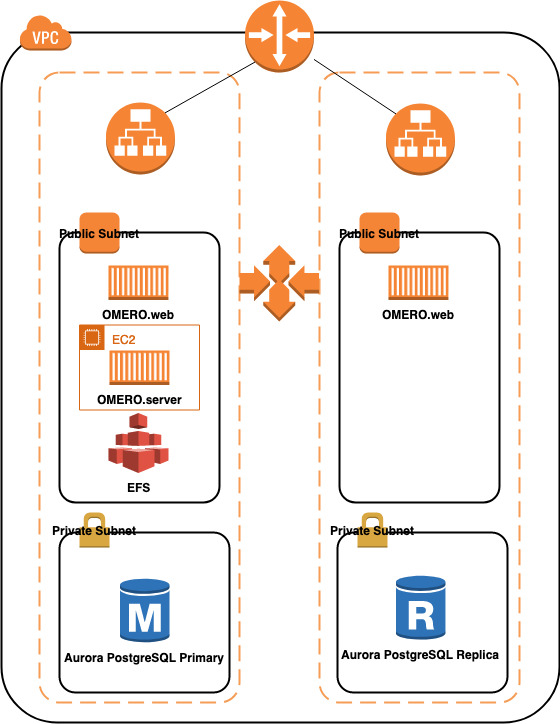
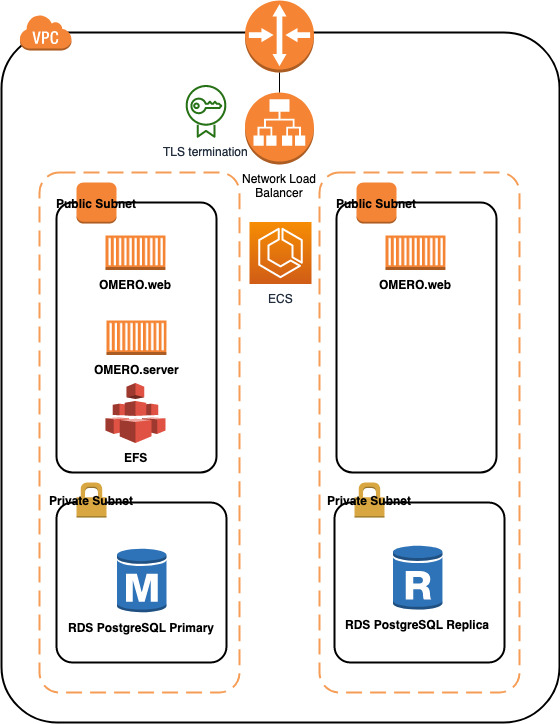
readme

diff --git a/README.md b/README.md
@@ -1,17 +1,26 @@
-## digital-pathology-on-aws
+## Digital Pathology on AWS
 
 
-## Deploy OMERO on AWS
+### Deploy Open Source [OMERO](https://www.openmicroscopy.org/omero/) on AWS
 
-
-The Hight Availability (HA) deployment of OMERO with single read write server can be used for 1-click deployment:
-
-[![launchstackbutton](Figures/launchstack.png)](https://console.aws.amazon.com/cloudformation/home?region=us-east-1#/stacks/create/template?stackName=omerostack&templateURL=https://omero-on-aws.s3-us-west-1.amazonaws.com/OMEROstack_RW.yml)
+[OMERO deployment](https://github.com/ome/omero-deployment-examples) is a typical three tier Web application. OMERO web and server are containerized and can run on [AWS ECS](https://aws.amazon.com/ecs). The data is stored in the [AWS EFS](https://aws.amazon.com/efs/) mounted to OMERO server and the [AWS RDS](https://aws.amazon.com/rds/) PostgreSQL database. Since current OMERO server only support one writer per mounted network share file, we will deploy only one read+write OMERO server in the following CloudFormation templates, otherwise there will be  a race condition between the two instances trying to own a lock on the network file share. Even though the OMERO server is deployed in single instance, we can achieve the Hight Availability (HA) deployment of OMERO web and PostgreSQL database.
 
 The diagram of Architecture is here:
+
 ![arch](Figures/omero-on-aws-rw.jpg)
 
-To install [AWS CLI](https://aws.amazon.com/cli/) and [omero-py](https://docs.openmicroscopy.org/omero/5.6.0/developers/Python.html) on the EC2 instance running OMERO server container, [run the following scripts](https://docs.aws.amazon.com/cli/latest/userguide/install-cliv2-linux.html)after login the instance:
+First create the network infrastructure. One way to do it is to deploy using [this CloudFormation template](https://docs.aws.amazon.com/codebuild/latest/userguide/cloudformation-vpc-template.html), which will create one [AWS VPC](https://aws.amazon.com/vpc/), two public subnets and two private subnets. If you want to add VPC flow logs, you can deploy [the network infrastructure CloudFormation template](https://github.com/aws-samples/digital-pathology-on-aws/blob/main/OMERO-cloudformation-templates/OMERONetworkInfra.yaml) in this repository and select true for AddVPCFlowLog parameter.
+
+Next the OMERO stack can be deployed using this 1-click deployment:
+[![launchstackbutton](Figures/launchstack.png)](https://console.aws.amazon.com/cloudformation/home?region=us-east-1#/stacks/create/template?stackName=omerostack&templateURL=https://omero-on-aws.s3-us-west-1.amazonaws.com/OMEROstackFargateTLS_RW.yml)
+
+which will deploy two nested CloudFormation templates, one for storage (EFS and RDS) and one for ECS containers (OMERO web and server). It also deploys a certificate for TLS termination at Network Load Balancer. Majority of parameters already have default values filled and subject to be customized. VPC and Subnets are required, which are from previous deployment. It also requires the Hosted Zone ID and fully qualifed domain name in [AWS Route53](https://aws.amazon.com/route53/), which will be used to validate SSL Certificate generated by [AWS Certificate Manager](https://aws.amazon.com/certificate-manager/).
+
+If you want to connect to the instance that host the OMERO server container and run omero client CLI to import images on that instance, you can deploy the OMERO server container on ECS EC2 instance using 1-click deployment:
+
+[![launchstackbutton](Figures/launchstack.png)](https://console.aws.amazon.com/cloudformation/home?region=us-east-1#/stacks/create/template?stackName=omerostack&templateURL=https://omero-on-aws.s3-us-west-1.amazonaws.com/OMEROstackTLS_RW.yml)
+
+Everything else other than the OMERO server running on EC2 instance is same as earlier CloudFormation template. To import whole slide images to OMERO server, you will need to install [AWS CLI](https://aws.amazon.com/cli/) and [omero-py](https://docs.openmicroscopy.org/omero/5.6.0/developers/Python.html) on the EC2 instance hosting OMERO server container, [run the following scripts](https://docs.aws.amazon.com/cli/latest/userguide/install-cliv2-linux.html) after login the instance:
 
 ```
 curl "https://awscli.amazonaws.com/awscli-exe-linux-x86_64.zip" -o "awscliv2.zip"  
@@ -36,13 +45,14 @@ and then use [OMERO client CLI](https://docs.openmicroscopy.org/omero/5.6.1/user
 provide the DNSname:4046, root and omero
 `omero import ./xxxxxx.svs`
 
-Another Hight Availability (HA) deployment of OMERO with single read write server on ECS Fargate can be used for 1-click deployment:
 
+If you do not have registered domain and public hosted zone in AWS Route53, you can deploy the following CloudFormation stacks and access to OMERO web through network load balancer DNS name without TLS termination. Again, you have two options: 
+
+You can run all OMERO web and server containers on ECS Fargate using this 1-click deployment:
 [![launchstackbutton](Figures/launchstack.png)](https://console.aws.amazon.com/cloudformation/home?region=us-east-1#/stacks/create/template?stackName=omerostack&templateURL=https://omero-on-aws.s3-us-west-1.amazonaws.com/OMEROstackFargate_RW.yml)
 
-The diagram of Architecture is here:
-![arch](Figures/omero-on-aws-rw-fargate.jpg)
-
+or you can run OMERO server on ECS EC2 instance using this 1-click deployment:
+[![launchstackbutton](Figures/launchstack.png)](https://console.aws.amazon.com/cloudformation/home?region=us-east-1#/stacks/create/template?stackName=omerostack&templateURL=https://omero-on-aws.s3-us-west-1.amazonaws.com/OMEROstack_RW.yml)
 
 
 The following blog posts and tutorials can be used for references:
